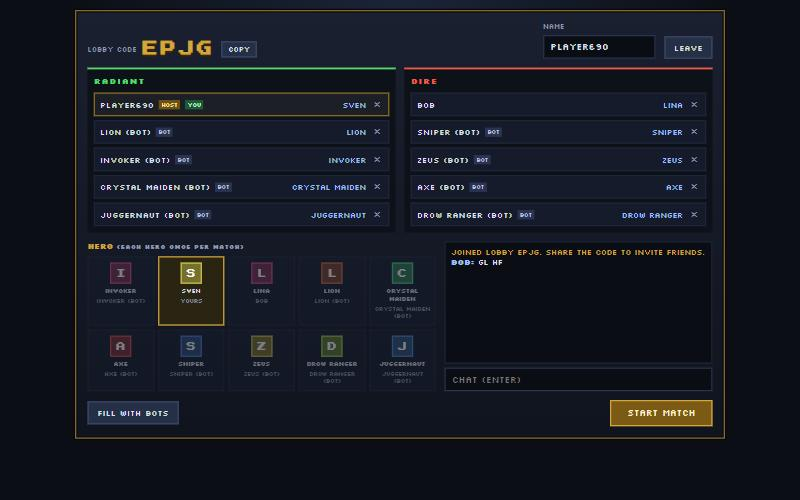
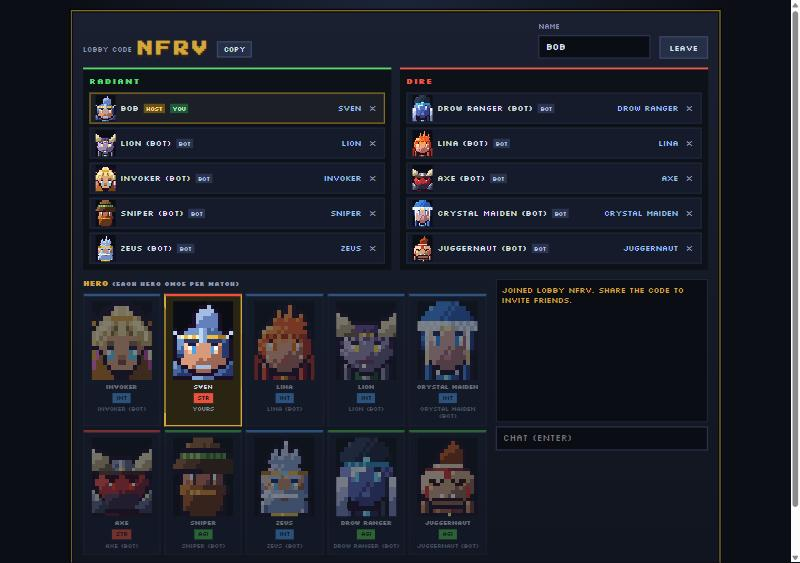
Lobby: pixel hero portraits + attribute tags

diff --git a/client/src/ui/lobby.js b/client/src/ui/lobby.js
@@ -2,7 +2,40 @@
 //   createLobby(root, net, { onGameStart }) -> { destroy() }
 import { MSG, LOBBY, PHASE, TEAM_SIZE, EV } from '@p2d/shared/protocol.js';
 import { HEROES, HERO_KEYS } from '@p2d/shared/heroes.js';
+import { DATA } from '@p2d/shared/data.js';
 import './lobby.css';
+
+// Hero portraits: sheets/<short>.js 'portrait' frame (ASCII rows) -> 1x PNG data URL, shown pixelated at 1x/3x via CSS.
+const sheetLoaders = import.meta.glob('../art/sheets/*.js');
+const portraitUrl = {};                       // short -> dataURL (filled as sheets load)
+const portraitLoading = new Map();
+function loadPortrait(short) {
+  if (portraitLoading.has(short)) return portraitLoading.get(short);
+  const load = sheetLoaders['../art/sheets/' + short + '.js'];
+  const p = (load ? load() : Promise.resolve(null)).then((m) => {
+    const sh = m && m.default, rows = sh && sh.frames && sh.frames.portrait;
+    if (!rows) return;
+    const w = Math.max(...rows.map((r) => r.length)), h = rows.length;
+    const c = document.createElement('canvas'); c.width = w; c.height = h;
+    const g = c.getContext('2d'), id = g.createImageData(w, h);
+    for (let y = 0; y < h; y++) for (let x = 0; x < w; x++) {
+      const ch = rows[y][x], col = ch && ch !== '.' ? sh.pal[ch] : null; if (!col) continue;
+      const o = (y * w + x) * 4;
+      id.data[o] = parseInt(col.slice(1, 3), 16); id.data[o + 1] = parseInt(col.slice(3, 5), 16); id.data[o + 2] = parseInt(col.slice(5, 7), 16);
+      id.data[o + 3] = col.length > 7 ? parseInt(col.slice(7, 9), 16) : 255;
+    }
+    g.putImageData(id, 0, 0);
+    portraitUrl[short] = c.toDataURL();
+  }).catch(() => {});
+  portraitLoading.set(short, p);
+  return p;
+}
+const ATTR = { str: ['STR', '#e8523f'], agi: ['AGI', '#4ec04e'], int: ['INT', '#4a9ae8'], all: ['ALL', '#d4a73c'] };
+const attrOf = (key) => ATTR[DATA.heroes[key]?.attr] || ATTR.all;
+const portraitImg = (key, cls) => {
+  const u = portraitUrl[HEROES[key]?.short];
+  return u ? `<img class="lb-pt ${cls}" src="${u}" alt="">` : `<span class="lb-pt ${cls} lb-pt-ph"></span>`;
+};
 
 const esc = (s) => String(s ?? '').replace(/[&<>"']/g, (c) => ({ '&': '&amp;', '<': '&lt;', '>': '&gt;', '"': '&quot;', "'": '&#39;' }[c]));
 const lsGet = (k) => { try { return localStorage.getItem(k); } catch { return null; } };
@@ -102,6 +135,7 @@ export function createLobby(root, net, { onGameStart } = {}) {
       </div>`;
     renderLog();
     renderRoom();
+    Promise.all(HERO_KEYS.map((k) => loadPortrait(HEROES[k].short))).then(() => { if (!destroyed && mode === 'room') renderRoom(); });
   }
 
   const me = () => net.state?.players?.get(net.mySid);
@@ -124,6 +158,7 @@ export function createLobby(root, net, { onGameStart } = {}) {
           const hero = p.hero ? HEROES[p.hero]?.name || p.hero : 'No hero';
           const self = p.sid === net.mySid;
           html += `<div class="lb-slot lb-full${self ? ' lb-self' : ''}${p.connected ? '' : ' lb-off'}">
+            ${p.hero ? portraitImg(p.hero, 'lb-pt1') : '<span class="lb-pt lb-pt1 lb-pt-ph"></span>'}
             <span class="lb-sn">${esc(p.name)}</span>
             ${p.isHost ? '<i class="lb-tag lb-host">HOST</i>' : ''}${p.isBot ? '<i class="lb-tag">BOT</i>' : ''}${self ? '<i class="lb-tag lb-you">YOU</i>' : ''}
             <span class="lb-sh${p.hero ? '' : ' lb-none'}">${esc(hero)}</span>
@@ -148,9 +183,11 @@ export function createLobby(root, net, { onGameStart } = {}) {
     el.querySelector('#lb-grid').innerHTML = HERO_KEYS.map((k) => {
       const o = taken.get(k), own = o && o.sid === net.mySid;
       const cls = own ? ' lb-picked' : o ? ' lb-taken' : '';
-      return `<button class="lb-hero${cls}" data-hero="${k}" ${o && !own ? 'disabled' : ''}>
-        <span class="lb-hav" style="--h:${(hash(k) % 360)}">${esc(HEROES[k].name[0])}</span>
+      const [al, ac] = attrOf(k);
+      return `<button class="lb-hero${cls}" data-hero="${k}" style="--a:${ac}" ${o && !own ? 'disabled' : ''}>
+        ${portraitImg(k, 'lb-pt3')}
         <span class="lb-hn">${esc(HEROES[k].name)}</span>
+        <i class="lb-attr">${al}</i>
         ${o ? `<small>${own ? 'yours' : esc(o.name)}</small>` : ''}
       </button>`;
     }).join('');

diff --git a/client/src/ui/lobby.css b/client/src/ui/lobby.css
@@ -42,7 +42,7 @@
 .lb-t1 { border-top-color:var(--dire); }
 .lb-team h2 { margin:0 0 4px; font-size:13px; text-transform:uppercase; letter-spacing:1px; color:var(--rad); }
 .lb-t1 h2 { color:var(--dire); }
-.lb-slot { height:38px; display:flex; align-items:center; gap:8px; padding:0 8px; background:#151b2a; border:2px solid #1d2538; }
+.lb-slot { height:50px; display:flex; align-items:center; gap:8px; padding:0 8px; background:#151b2a; border:2px solid #1d2538; }
 .lb-full.lb-self { border-color:var(--gold2); background:#1c1f26; }
 .lb-off { opacity:.45; }
 .lb-sn { font-size:13px; overflow:hidden; text-overflow:ellipsis; white-space:nowrap; max-width:42%; }
@@ -58,14 +58,17 @@
 .lb-take:hover { color:var(--gold); }
 .lb-spec { grid-column:1 / -1; color:var(--dim); font-size:12px; }
 
-.lb-bottom { display:grid; grid-template-columns:1.3fr 1fr; gap:14px; }
+.lb-bottom { display:grid; grid-template-columns:1.9fr 1fr; gap:14px; }
 .lb-heroes h3 { margin:0 0 8px; color:var(--gold); font-size:12px; text-transform:uppercase; }
 .lb-heroes h3 small { color:var(--dim); text-transform:none; }
-.lb-grid { display:grid; grid-template-columns:repeat(5, 1fr); gap:6px; }
-.lb-hero { font:inherit; color:var(--txt); background:#151b2a; border:2px solid #1d2538; padding:8px 4px; cursor:pointer; display:flex; flex-direction:column; align-items:center; gap:4px; }
+.lb-grid { display:grid; grid-template-columns:repeat(5, minmax(0, 1fr)); gap:6px; }
+.lb-hero { border-top:4px solid var(--a,#1d2538) !important; font:inherit; color:var(--txt); background:#151b2a; border:2px solid #1d2538; padding:8px 4px; cursor:pointer; display:flex; flex-direction:column; align-items:center; gap:4px; }
 .lb-hero:hover:not(:disabled) { border-color:var(--gold2); }
-.lb-hav { width:34px; height:34px; display:flex; align-items:center; justify-content:center; font-family:'Press Start 2P',monospace; font-size:14px; color:#fff;
-  background:hsl(var(--h) 45% 32%); box-shadow:inset 0 0 0 2px hsl(var(--h) 55% 55%); }
+.lb-pt { image-rendering:pixelated; display:block; background:#0a0d14; flex:none; }
+.lb-pt3 { width:96px; height:126px; }
+.lb-pt1 { width:32px; height:42px; }
+.lb-pt-ph { background:#10141e; }
+.lb-attr { font-style:normal; font-size:9px; padding:2px 6px; color:#0b0e14; background:var(--a,#888); }
 .lb-hn { font-size:10px; text-align:center; }
 .lb-hero small { font-size:9px; color:var(--dim); }
 .lb-picked { border-color:var(--gold); background:#2a2412; }
@@ -82,7 +85,7 @@
 
 @media (max-width:720px) {
   .lb-teams, .lb-bottom { grid-template-columns:1fr; }
-  .lb-grid { grid-template-columns:repeat(3, 1fr); }
+  .lb-grid { grid-template-columns:repeat(2, minmax(0, 1fr)); }
   .lb-lobby { grid-template-columns:60px 1fr auto; }
   .lb-lcount { display:none; }
 }
